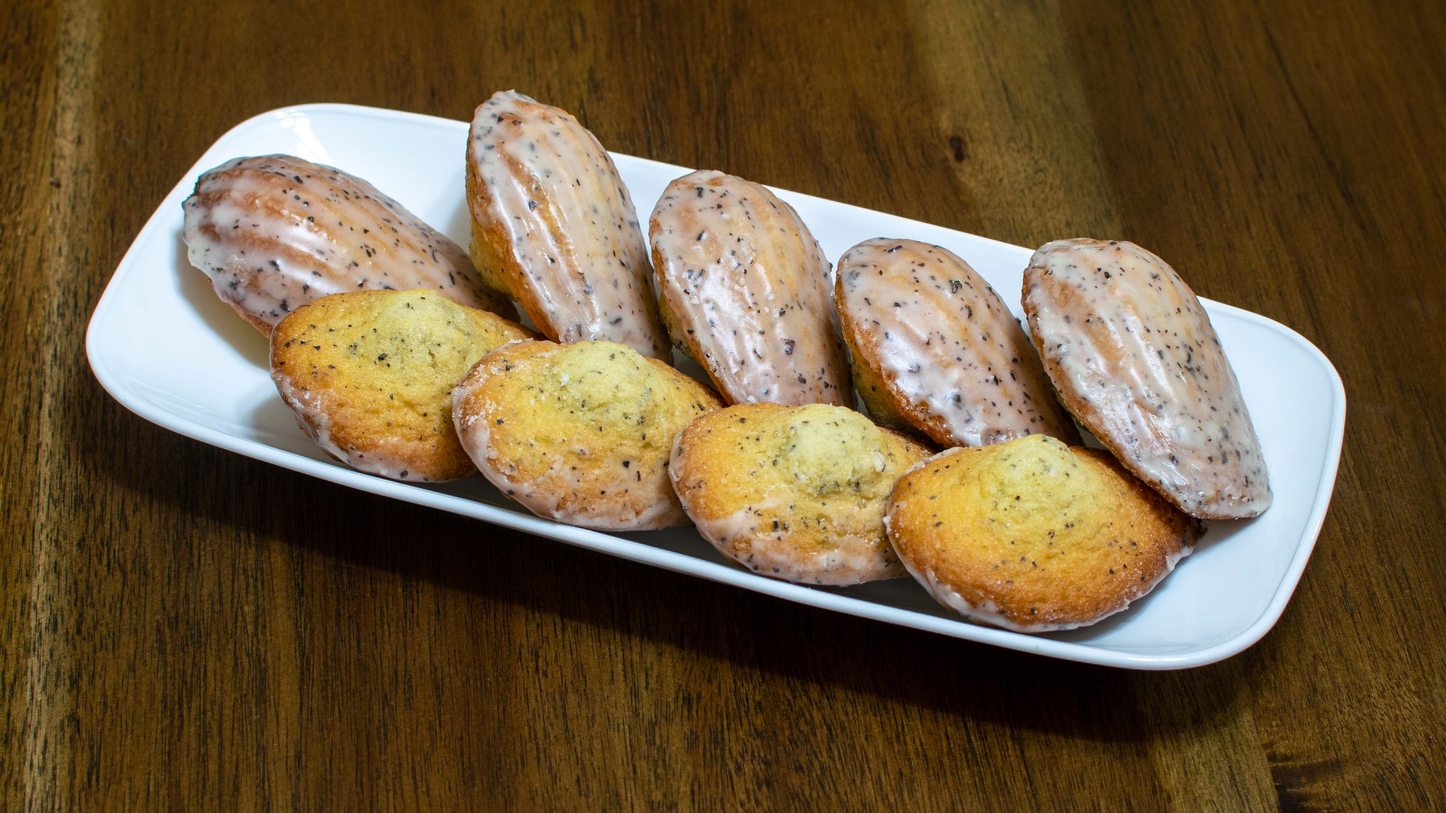
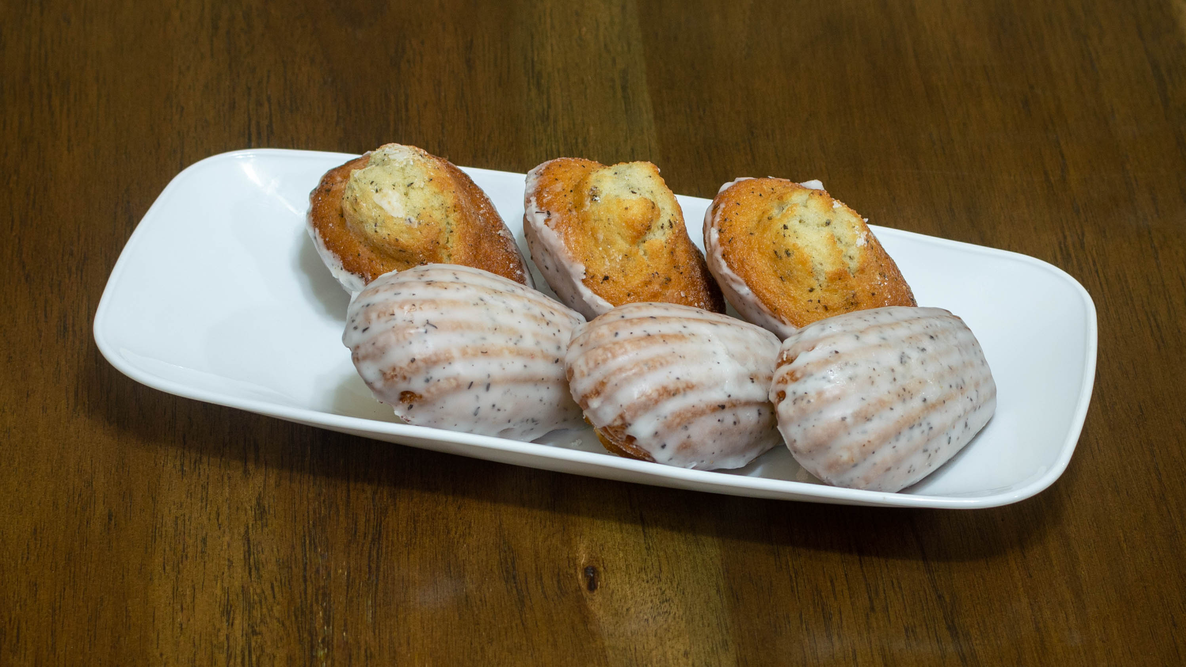
Add improved madeleines

diff --git a/index.html b/index.html
@@ -37,6 +37,7 @@
 
 <!-- From: https://hibbard.eu/display-ui-blocking-overlay-on-page-load/ -->
 <!-- To disable, comment out until ... -->
+<!--
 <div id="announcement">
   <h2>madeleines temporarily unavailable.</h2>
   <p>We're currently upgrading our madeleine recipes.</p>
@@ -65,6 +66,7 @@
     e.preventDefault();
   });
 </script>
+-->
 <!-- ... here. -->
 
 <!-- Parallax Image with Logo -->
@@ -133,14 +135,17 @@
   <input type="radio" id="cinnamon" name="categories" value="cinnamon">
   <input type="radio" id="coconut" name="categories" value="coconut">
   <input type="radio" id="dessert" name="categories" value="dessert">
+  <input type="radio" id="earlgrey" name="categories" value="earlgrey">
   <input type="radio" id="fig" name="categories" value="fig">
   <input type="radio" id="financier" name="categories" value="financier">
   <input type="radio" id="glazed" name="categories" value="glazed">
   <input type="radio" id="international" name="categories" value="international">
   <input type="radio" id="lemon" name="categories" value="lemon">
+  <input type="radio" id="madeleines" name="categories" value="madeleines">
   <input type="radio" id="mocha" name="categories" value="mocha">
   <input type="radio" id="muffins" name="categories" value="muffins">
   <input type="radio" id="nutella" name="categories" value="nutella">
+  <input type="radio" id="orange" name="categories" value="orange">
   <input type="radio" id="oreo" name="categories" value="oreo">
   <input type="radio" id="peanut" name="categories" value="peanut">
   <input type="radio" id="pecan" name="categories" value="pecan">
@@ -166,14 +171,17 @@
     <li><label for="cinnamon">cinnamon</label></li>
     <li><label for="coconut">coconut</label></li>
     <li><label for="dessert">dessert</label></li>
+    <li><label for="earlgrey">earl grey</label></li>
     <li><label for="fig">fig</label></li>
     <li><label for="financier">financier</label></li>
     <li><label for="glazed">glazed</label></li>
     <li><label for="international">international</label></li>
     <li><label for="lemon">lemon</label></li>
+    <li><label for="madeleines">madeleines</label></li>
     <li><label for="mocha">mocha</label></li>
     <li><label for="muffins">muffins</label></li>
     <li><label for="nutella">nutella</label></li>
+    <li><label for="orange">orange</label></li>
     <li><label for="oreo">oreo</label></li>
     <li><label for="peanut">peanut</label></li>
     <li><label for="pecan">pecan</label></li>
@@ -194,6 +202,13 @@
        <h2>gift card.</h2>
        <p class="price">$?</p>
        <p class="ingredients">great for gifts.</p>
+    </li>
+
+    <li class="menuitem" data-category="madeleines chocolate">
+       <img alt="red velvet & white chocolate madeleine." class="modal_img" src="img_menu/madeleines_red_velvet_01_th400.jpg" style="width:100%"/>
+       <h2>red velvet &amp; white chocolate madeleine.</h2>
+       <p class="price">$17  (6 pieces)</p>
+       <p class="ingredients">unsalted butter. eggs. sugar. powdered sugar. white flour. white chocolate chips. cocoa powder. water. food coloring (red). baking powder. salt.</p>
     </li>
 
     <li class="menuitem" data-category="financier chocolate">
@@ -280,6 +295,13 @@
        <p class="ingredients">white flour. unsalted butter. sugar. dulce de leche. whole milk. heavy whipping cream. cinnamon powder. baking powder. salt.</p>
     </li>
 
+    <li class="menuitem" data-category="madeleines orange glazed">
+       <img alt="glazed orange madeleines." class="modal_img" src="img_menu/madeleines_orange_01_th400.jpg" style="width:100%"/>
+       <h2>glazed orange madeleines.</h2>
+       <p class="price">$16</p>
+       <p class="ingredients">sugar. powdered sugar. unsalted butter. eggs. white flour. orange juice. orange zest. baking powder. salt.</p>
+    </li>
+
     <li class="menuitem" data-category="scone raspberry">
        <img alt="raspberry scones." class="modal_img" src="img_menu/scone_raspberry_01_th400.jpg" style="width:100%"/>
        <h2>raspberry scones.</h2>
@@ -308,6 +330,13 @@
        <p class="ingredients">eggs. sugar. white flour. whole milk. Lindt Lindor balls. canola oil. Nutella. chocolate syrup. semi-sweet chocolate. cocoa powder. vanilla extract. heavy whipping cream. unsalted butter. rice syrup. baking powder. salt.</p>
     </li>
 
+    <li class="menuitem" data-category="madeleines cinnamon">
+       <img alt="churros madeleines." class="modal_img" src="img_menu/madeleines_churros_01_th400.jpg" style="width:100%"/>
+       <h2>churros madeleines.</h2>
+       <p class="price">$16</p>
+       <p class="ingredients">sugar. unsalted butter. eggs. white flour. dulce de leche. cinnamon powder. baking powder. salt.</p>
+    </li>
+
     <li class="menuitem" data-category="scone lemon glazed">
        <img alt="glazed lemon scones." class="modal_img" src="img_menu/scone_lemon_01_th400.jpg" style="width:100%"/>
        <h2>glazed lemon scones.</h2>
@@ -329,6 +358,13 @@
        <p class="ingredients">powdered sugar. unsalted butter. eggs. semi-sweet chocolate. white flour. sugar. almond flour. cocoa powder. heavy whipping cream.</p>
     </li>
 
+    <li class="menuitem" data-category="madeleines caramel glazed">
+       <img alt="glazed salted caramel lotus madeleines." class="modal_img" src="img_menu/madeleines_lotus_01_th400.jpg" style="width:100%"/>
+       <h2>glazed salted caramel lotus madeleines.</h2>
+       <p class="price">$17</p>
+       <p class="ingredients">sugar. unsalted butter. eggs. white flour. heavy whipping cream. powdered sugar. caramel sauce. lotus Biscoff. water. ground lotus Biscoff. salt. baking powder.</p>
+    </li>
+
     <li class="menuitem" data-category="tart dessert strawberry">
        <img alt="mini strawberry tarts." class="modal_img" onmouseout="unhover(this);" onmouseover="hover(this);" src="img_menu/tart_strawberry_mini_01_th400.jpg" style="width:100%"/>
        <h2>mini strawberry tarts.</h2>
@@ -341,6 +377,13 @@
        <h2>oreo cake.</h2>
        <p class="price">$24  (8&#8243; / 20&#160;cm)</p>
        <p class="ingredients">unsalted butter. sugar. eggs. crumbled Oreo cookies. white flour. powdered sugar. heavy whipping cream. cocoa powder. water. baking powder. salt.</p>
+    </li>
+
+    <li class="menuitem" data-category="madeleines oreo glazed">
+       <img alt="glazed oreo madeleines." class="modal_img" src="img_menu/madeleines_oreo_01_th400.jpg" style="width:100%"/>
+       <h2>glazed oreo madeleines.</h2>
+       <p class="price">$17</p>
+       <p class="ingredients">sugar. unsalted butter. eggs. white flour. powdered sugar. crumbled Oreo cookies. water. cocoa powder. baking powder. Oreo cookie dust. salt.</p>
     </li>
 
     <li class="menuitem" data-category="chocolate scone">
@@ -364,6 +407,13 @@
        <p class="ingredients">white flour. unsalted butter. powdered sugar. whole milk. heavy whipping cream. sugar. apricot jam. baking powder. water. salt.</p>
     </li>
 
+    <li class="menuitem" data-category="madeleines earlgrey glazed">
+       <img alt="glazed earl grey madeleines." class="modal_img" src="img_menu/madeleines_earl_grey_01_th400.jpg" style="width:100%"/>
+       <h2>glazed earl grey madeleines.</h2>
+       <p class="price">$16</p>
+       <p class="ingredients">unsalted butter. eggs. sugar. white flour. powdered sugar. water. earl grey tea leaves. baking powder. salt.</p>
+    </li>
+
     <li class="menuitem" data-category="dessert walnut international caramel">
        <img alt="engadiner nusstorte (salted caramel with walnut tart)." class="modal_img" onmouseout="unhover(this);" onmouseover="hover(this);" src="img_menu/engadiner_nusstorte_01_th400.jpg" style="width:100%"/>
        <h2>engadiner nusstorte (salted caramel with walnut tart).</h2>
@@ -376,6 +426,13 @@
        <h2>apple galette with salted caramel.</h2>
        <p class="price">$22</p>
        <p class="ingredients">apples. white sugar. white flour. unsalted butter. heavy whipping cream. water. egg yolks. cinnamon powder. salt.</p>
+    </li>
+
+    <li class="menuitem" data-category="madeleines lemon glazed">
+       <img alt="glazed lemon madeleines." class="modal_img" src="img_menu/madeleines_lemon_01_th400.jpg" style="width:100%"/>
+       <h2>glazed lemon madeleines.</h2>
+       <p class="price">$16</p>
+       <p class="ingredients">sugar. powdered sugar. unsalted butter. eggs. white flour. lemon juice. lemon zest. baking powder. salt.</p>
     </li>
 
     <li class="menuitem" data-category="international chocolate">

diff --git a/css/filter.css b/css/filter.css
@@ -65,14 +65,17 @@ input[type="radio"] {
 [value="cinnamon"]:checked ~ .filters [for="cinnamon"],
 [value="coconut"]:checked ~ .filters [for="coconut"],
 [value="dessert"]:checked ~ .filters [for="dessert"],
+[value="earlgrey"]:checked ~ .filters [for="earlgrey"],
 [value="fig"]:checked ~ .filters [for="fig"],
 [value="financier"]:checked ~ .filters [for="financier"],
 [value="glazed"]:checked ~ .filters [for="glazed"],
 [value="international"]:checked ~ .filters [for="international"],
 [value="lemon"]:checked ~ .filters [for="lemon"],
+[value="madeleines"]:checked ~ .filters [for="madeleines"],
 [value="mocha"]:checked ~ .filters [for="mocha"],
 [value="muffins"]:checked ~ .filters [for="muffins"],
 [value="nutella"]:checked ~ .filters [for="nutella"],
+[value="orange"]:checked ~ .filters [for="orange"],
 [value="oreo"]:checked ~ .filters [for="oreo"],
 [value="peanut"]:checked ~ .filters [for="peanut"],
 [value="pecan"]:checked ~ .filters [for="pecan"],
@@ -103,14 +106,17 @@ input[type="radio"] {
 [value="cinnamon"]:checked ~ .menuitems .menuitem:not([data-category~="cinnamon"]),
 [value="coconut"]:checked ~ .menuitems .menuitem:not([data-category~="coconut"]),
 [value="dessert"]:checked ~ .menuitems .menuitem:not([data-category~="dessert"]),
+[value="earlgrey"]:checked ~ .menuitems .menuitem:not([data-category~="earlgrey"]),
 [value="fig"]:checked ~ .menuitems .menuitem:not([data-category~="fig"]),
 [value="financier"]:checked ~ .menuitems .menuitem:not([data-category~="financier"]),
 [value="glazed"]:checked ~ .menuitems .menuitem:not([data-category~="glazed"]),
 [value="international"]:checked ~ .menuitems .menuitem:not([data-category~="international"]),
 [value="lemon"]:checked ~ .menuitems .menuitem:not([data-category~="lemon"]),
+[value="madeleines"]:checked ~ .menuitems .menuitem:not([data-category~="madeleines"]),
 [value="mocha"]:checked ~ .menuitems .menuitem:not([data-category~="mocha"]),
 [value="muffins"]:checked ~ .menuitems .menuitem:not([data-category~="muffins"]),
 [value="nutella"]:checked ~ .menuitems .menuitem:not([data-category~="nutella"]),
+[value="orange"]:checked ~ .menuitems .menuitem:not([data-category~="orange"]),
 [value="oreo"]:checked ~ .menuitems .menuitem:not([data-category~="oreo"]),
 [value="peanut"]:checked ~ .menuitems .menuitem:not([data-category~="peanut"]),
 [value="pecan"]:checked ~ .menuitems .menuitem:not([data-category~="pecan"]),

diff --git a/generator/make_html.py b/generator/make_html.py
@@ -107,6 +107,7 @@ def generate_html(inv):
 
 <!-- From: https://hibbard.eu/display-ui-blocking-overlay-on-page-load/ -->
 <!-- To disable, comment out until ... -->
+<!--
 <div id="announcement">
   <h2>madeleines temporarily unavailable.</h2>
   <p>We're currently upgrading our madeleine recipes.</p>
@@ -135,6 +136,7 @@ def generate_html(inv):
     e.preventDefault();
   });
 </script>
+-->
 <!-- ... here. -->
 
 <!-- Parallax Image with Logo -->
